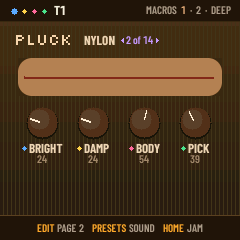
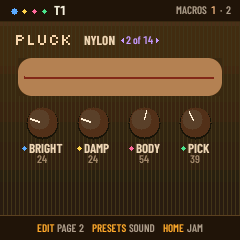
TFM-UI round 7: the report and the re-rendered screens

Changed region(s): [[0.5833, 0.0, 0.9625, 0.0583]]

diff --git a/NIGHT-REPORT-UI.md b/NIGHT-REPORT-UI.md
@@ -255,3 +255,31 @@ Branch `tfm-ui`, one commit per item: `1f0fb6e` (1), `ad37ad8` (2), `a9590f9` (3
 **Renders:** tfm-spec/built re-rendered (ui_dice is gone: START's ui_start, ui_start_rolled, ui_start_spin), the contact sheet redone; 0 lint findings.
 
 **Suite (round 6):** tests=0 (ALL HOST TESTS PASSED, after the DEEP EDIT row fix above), no FAIL lines, target_budget 0 (the audio ISR fm1_alnk0_irq costs 8,705 against 8,285: +5 %, inside the +10 %; round 5 was +4 %: the per-part level trim and the per-voice key level). Final build `63e9414`: 503,104 B, RAM 63,224 B (headroom 4,360 B), pool 365,752 B. Published as the installer preview (`next/`), the tested release at the root unchanged.
+
+## Round 7 (ROUND-7.md: the instruments that vanished, and three small things)
+
+Branch `tfm-ui`: `95435e4` (1), `91ff2d2` (2 and 4: one commit, they share tfm_faces.c and the same screens), `2419f94` (3). Package `tilt-fm-ui-r7-<sha>.fwsc`. Nothing was run on an FM-1.
+
+**Flash and RAM** (app image / RAM .data+.bss; pool 365,752 B throughout): round 6 final 503,104 / 63,224. Item 1: 503,108 (+4). Items 2 + 4: 503,132 (+24). Item 3: 503,164 (+32). RAM unchanged (63,224 B, headroom 4,360 B).
+
+1. **Instruments vanish after a song plays: found and fixed.** Your cause was right: `project.c` `chain_prepare`, SOUNDS SCENE, stored each scene's preset as `preset % npresets`, which wraps a TFM byte (0x20 and up) into the engine's factory range; `chain_sound_put` wrote it to `t->preset`, `tfm_ins_of` said TI_NONE, and the autosave kept it. It now keeps `preset >= TFM_PRE0` as is (as the scene stage at ~1899 and the restore at ~1263 did). **Test first, against the old line:** `test_r7_instruments` (a 4-track band, two scenes with different instruments on all four tracks, a chain of the two with SOUNDS SCENE on): it fails on the old code (the playing row's tracks lose their bytes) and passes on the new. Then: stopped (the live sounds come back, each with its byte), the chain again from JAM, JAM and SOUND on the instrument (JAM stays JAM, EDIT toggles the pages, never DEEP), a power cycle done the autosave's way (capture, pack, unpack, restore; the tracks set to other sounds first), MUTATE SOUND. **The audit, every place a preset byte is copied, wrapped, clamped or defaulted** (project.c, song_chain.c, seq.c, ui.c, upreset.c, editor*.c, tilt.c, tfm_*.c, web/):
+   - project.c 1499 (chain_prepare, the SOUNDS SCENE source): **the bug, fixed**.
+   - project.c 1899 (scene stage) and 1263 (project restore): keep the byte already.
+   - project.c 258/266 (proj_trk_from), 290, 415, 436, 563, 651, 735 (the format copies and the pack / unpack), 1040 (capture), 1476 (the live copy for the chain): copy the byte as it is.
+   - project.c 301, 479, 1284-1287: PROJ_DEF_KEEP / PROJ_DEF_SOUND (the old formats' own markers, never a TFM byte), their conversions at 323, 349-350, 381-382 only touch DIGITAL and SAMPLE PERC tracks (engines that have no instrument): fine.
+   - song_chain.c 73 (chain_sound_put): copies the byte it is given (it was given the wrapped one).
+   - seq.c 1363 (the scene stage onto the track): copies.
+   - ui.c 1149 / 1207 / 1259 (undo): save and restore the byte; 1461 (the retired DIGITAL load), 1518 (apply_preset_to, an engine's own preset chosen on purpose: PRESETS in DEEP, the editor's PRESET command): a deliberate choice of an engine preset, so it ends the instrument by design.
+   - ui.c 1686 / 1848 (`% npresets` in the PRESETS list position), ui_draw.c 846 (`% npresets`, the name shown): reads only, tagged tracks are handled (`tagged`).
+   - upreset.c 481 (loading a user preset sets `preset = 0`, `t->user` marks it; a TFM sound saved as a user preset is the tagged case at ui.c 1682): by design.
+   - editor.c 122-180 (the byte sent to the web editor, `& 0x7F` by ed_b: a display value only, never written back), editor.c 515-532 (ED_PRESET: an engine preset on purpose).
+   - tfm_instr.c 482 (tfm_load), tfm_live.c prf_mutate (calls tfm_load: keeps the instrument): fine.
+   - web: fm1backup.js moves objects as bytes (no preset field read); editor.html's applyPreset is the editor's own engine preset choice.
+   So after this nothing but a deliberate PRESETS / editor / user-preset action can turn an instrument's byte into a raw engine preset. **No repair on load**, as the spec says: a wrapped byte cannot be told from a real Felucca preset; projects already damaged have to pick the instrument again (hold EDIT).
+2. **No instrument: a plain TFM face.** SOUND on a track with no instrument shows "NO INSTRUMENT / HOLD EDIT TO PICK ONE" (and its engine's name small); EDIT toggles its pages as everywhere (the old "EDIT: DEEP" line is gone). JAM's cabinet says NO / INSTRUMENT / HOLD EDIT in place of the dial (a muted one still says MUTED); the knob no longer drives LEVEL from there. DEEP is reached only from MENU > DEEP EDIT. Renders: `ui_snd_none`, `ui_jam_none`. Test: `test_r7_noinst`.
+3. **Which build is this.** `TILT_BUILD` (ui.c, default `dev`): small on START's display under TILT; MENU > INFO's first row is now BUILD (it was FIRMWARE showing Felucca's v1.6.1; the INFO page has no room for a fourth row, so Felucca's version stays on ABOUT's FELUCCA page and ABOUT's TILT-FM line now reads "TILT-FM 0.2.1 . r7-<sha>"). `tools/build.py` passes `-DTILT_BUILD=` from `$TILT_BUILD` (this round's package: `r7-<sha>`, the package name's tag), else `dev-<git short sha>`. Test: it is drawn on START.
+4. **SOUND's header** reads MACROS 1 . 2 (done in the item 2 commit).
+
+**Tests:** tests/ui_test_r6.h (round 7 section): `test_r7_instruments`, `test_r7_noinst`, `test_r7_build`.
+
+**Suite (round 7):** tests=0 (ALL HOST TESTS PASSED), no FAIL lines, target_budget 0 (the audio ISR 8,705 against 8,285: +5 %, unchanged from round 6). 0 lint findings, both renders 0 off. Final build 503,164 B, RAM 63,224 B, pool 365,752 B. Published as the installer preview (next/), the tested release at the root unchanged.
